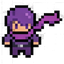
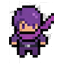
Fix character proportions, farm/pen overlap, and add yard decoration
Three visual bugs reported by the user:

1. char_4's front sprite had a long trailing ribbon spanning the full
   64px canvas width (vs ~48px body width on char_1-3), making it look
   disproportionate next to other characters. Cropped/recentered the
   ribbon tail. Also found char_4_side.png was a mis-cropped headshot
   with no body at all (not just wide) -- disabled its side-facing
   variant in DIRECTIONAL_ASSETS so it falls back to the (now-fixed)
   front sprite instead of showing a broken headless blob. char_4_back
   was already fine, left untouched.

2. FARM_PLOT_LAYOUT/PEN_LAYOUT placed adjacent plots/pens only 1 grid
   unit apart, which at this project's ISO_STEP_X/Y values is far
   smaller than the 40x40px cell size -- plots visually overlapped each
   other by 40-70%, reading as a jumbled cluster instead of two parallel
   rows. Spaced them 3 units apart (verified via gridPos() math: 0
   overlapping pairs), producing two clean non-overlapping parallel
   rows.

3. Occupied pens (animal placed) kept the same dark box background as
   empty/locked pens, making animals look caged despite already having
   wander animation. Removed the background/border for the occupied
   state so animals render freely on the grass; empty/locked slots keep
   their box since those still need to read as ground markers.

Also added 4 non-interactive decorative props (sunflower, fallen
leaves, herb, butterfly) to the yard scene per user request for "庭院
[…]

diff --git a/js/game.js b/js/game.js
@@ -784,9 +784,22 @@ function yardPlotCellHtml(state, plotDef) {
   const stateCls = stage.mature ? " mature" : " growing";
   return `<div class="roomCell farmPlot${stateCls} alwaysLabel" id="farmPlot_${plotDef.id}" style="left:${pos.left};top:${pos.top};z-index:${z}" title="${label}"><div class="icon">${icon}</div><div class="homeLabel">${label}</div></div>`;
 }
+// 2026-07-03（使用者反饋「庭院應該更多些裝飾」）：純視覺、無互動的擺設，位置刻意避開FARM_PLOT_LAYOUT
+// 的地塊座標，不佔用/不影響任何遊戲邏輯，只是讓庭院看起來不再只有光禿禿的地塊
+const YARD_DECOR = [
+  { gx: 0, gy: 0, icon: "🌻", label: "向日葵" },
+  { gx: 6, gy: 0, icon: "🍂", label: "落葉堆" },
+  { gx: 1, gy: 6, icon: "🌿", label: "野草" },
+  { gx: 10, gy: 6, icon: "🦋", label: "蝴蝶" },
+];
+function yardDecorCellHtml(d) {
+  const pos = gridPos(d.gx, d.gy);
+  const z = cellZ(d.gx + d.gy);
+  return `<div class="roomCell yardDecor" style="left:${pos.left};top:${pos.top};z-index:${z}"><div class="icon">${d.icon}</div><div class="homeLabel">${d.label}</div></div>`;
+}
 function yardSceneHtml(state) {
   if (outdoorScene !== "yard") { outdoorScene = "yard"; outdoorPlayerPos = null; }
-  const items = FARM_PLOT_LAYOUT.map(p => yardPlotCellHtml(state, p));
+  const items = YARD_DECOR.map(yardDecorCellHtml).concat(FARM_PLOT_LAYOUT.map(p => yardPlotCellHtml(state, p)));
   items.push(outdoorPlayerCellHtml("yard"));
   // 庭院是室外土地，不沿用state.roomFloor(小屋室內地板樣式)，改用專屬的ground-farmland紋理
   return `<div class="homeScene"><div class="homePillRow homeTabPills"><button class="homePill" id="yardBackBtn">← 返回小屋</button></div><div class="roomCanvas ground-farmland" id="yardCanvas">${items.join("")}</div></div>`;
@@ -1251,7 +1264,7 @@ function itemIconHtml(itemId, type) {
 // 統一資產解析機制，取代ISO_ASSETS/ENEMY_ASSETS/ICON_ASSETS各自一份幾乎相同的「存在才換圖」判斷邏輯，
 // 並收斂玩家頭像(原本4處)/同伴頭像(原本3處)散落重複的硬編碼路徑。state為模組全域變數，
 // condition函式需要依劇情/天數/血月狀態挑圖時可直接讀取，不必額外傳參。
-const ASSET_CACHE_VERSION = 200; // 取代散落各處的?v=NNN字串，之後bump快取版號只需要改這一個數字
+const ASSET_CACHE_VERSION = 203; // 取代散落各處的?v=NNN字串，之後bump快取版號只需要改這一個數字
 const ASSET_REGISTRY = {};
 function registerAsset(category, id, file) {
   ASSET_REGISTRY[`${category}:${id}`] = [{ condition: () => true, file }];
@@ -1276,7 +1289,7 @@ const DIRECTIONAL_ASSETS = {
   "character:char_1": { back: 1, side: 1 },
   "character:char_2": { back: 1, side: 1 },
   "character:char_3": { back: 1, side: 1 },
-  "character:char_4": { back: 1, side: 1 },
+  "character:char_4": { back: 1 }, // side暫時停用：char_4_side.png是誤裁切的頭部特寫(缺身體)，非真正側面行走圖，待補正式美術前先退回正面圖
   "companion:default": { back: 1, side: 1 },
 };
 Object.keys(DIRECTIONAL_ASSETS).forEach(key => {

diff --git a/js/logic.js b/js/logic.js
@@ -1116,13 +1116,16 @@
   // V1曾改用平面網格，但那套系統跟小屋室內的「點擊走過去互動」共用一套函式，繫死在等角投影上，
   // 無法直接套用平面座標。改回gx/gy，但吸取V1教訓：相鄰地塊只差1格(不再留空隙)，減少同一排的落差。
   // id列表也是defaultState()/驗證時的唯一依據，避免兩處各存一份地塊清單
+  // 2026-07-03修正：gx/gy相鄰只差1格時，換算成gridPos()的實際像素間距(約23px橫/17px縱)
+  // 遠小於格子本體(40x40px)，導致地塊嚴重互相重疊(不是「平行排列」，是疊在一起)。
+  // 改成差3格，橫向約70px、縱向約51px，兩者都超過格子尺寸，兩排地塊才會呈現清楚不重疊的平行排列
   const FARM_PLOT_LAYOUT = [
     { id: "plot_1", gx: 2, gy: 2 },
-    { id: "plot_2", gx: 3, gy: 2 },
-    { id: "plot_3", gx: 4, gy: 2 },
-    { id: "plot_4", gx: 2, gy: 4 },
-    { id: "plot_5", gx: 3, gy: 4 },
-    { id: "plot_6", gx: 4, gy: 4 },
+    { id: "plot_2", gx: 5, gy: 2 },
+    { id: "plot_3", gx: 8, gy: 2 },
+    { id: "plot_4", gx: 2, gy: 5 },
+    { id: "plot_5", gx: 5, gy: 5 },
+    { id: "plot_6", gx: 8, gy: 5 },
   ];
 
   // 沒有真實時鐘離線結算機制，用「第幾個天/夜階段」當生長時間軸，回合制推進即天然達成離線也會生長
@@ -1208,11 +1211,12 @@
 
   // ---------- 養殖區（2026-07-02，見規格文件/養殖區_設計規格.md，2026-07-03改版V2星露谷式） ----------
   // 欄位固定佈局：gx/gy給等角走路系統定位，理由跟FARM_PLOT_LAYOUT一致
+  // 2026-07-03修正：理由同FARM_PLOT_LAYOUT，相鄰只差1格會嚴重重疊，改成差3格
   const PEN_LAYOUT = [
     { id: "pen_1", gx: 2, gy: 2 },
-    { id: "pen_2", gx: 3, gy: 2 },
-    { id: "pen_3", gx: 2, gy: 3 },
-    { id: "pen_4", gx: 3, gy: 3 },
+    { id: "pen_2", gx: 5, gy: 2 },
+    { id: "pen_3", gx: 2, gy: 5 },
+    { id: "pen_4", gx: 5, gy: 5 },
   ];
 
   const FEED_COST = 3; // 餵食消耗的food

diff --git a/css/style.css b/css/style.css
@@ -479,8 +479,12 @@ body.blood-moon .panelCard { background: rgba(18,0,0,0.85); border-color: rgba(2
 }
 .roomCell.penCell.empty .icon { background: linear-gradient(to bottom, #4a4034, #332c24); }
 .roomCell.penCell.locked .icon { background: #2b2f36; opacity: 0.6; }
-.roomCell.penCell.occupied .icon { background: linear-gradient(to bottom, #3d4438, #2a3026); }
+/* 2026-07-03修正：已放養動物後不該還留著方形底色框(使用者反饋「雞還有框框」)——動物本身會走動，
+   應該像自由活動的個體而不是關在一個色塊裡；底色/邊框只在「空欄位/上鎖」這種需要標示地面結構的狀態才留著 */
+.roomCell.penCell.occupied .icon { background: none; border: none; box-shadow: none; }
 .roomCell.penCell.occupied.ready .icon { filter: drop-shadow(0 0 5px rgba(150,220,120,0.75)); }
+/* 2026-07-03新增：庭院純裝飾擺設(使用者反饋「庭院應該更多些裝飾」)，無互動、無底色框，只在hover顯示名稱 */
+.roomCell.yardDecor .icon { font-size: 22px; }
 /* V2星露谷式(2026-07-03)：地塊/欄位的狀態(解鎖成本/生長進度/好感度)是玩家需要一眼看到的資訊，
    不比照家具名稱標籤走hover-only(.roomCell .homeLabel預設opacity:0)，一律常駐顯示 */
 .roomCell.alwaysLabel .homeLabel { opacity: 1; }

diff --git a/index.html b/index.html
@@ -4,7 +4,7 @@
 <meta charset="UTF-8">
 <meta name="viewport" content="width=device-width, initial-scale=1, maximum-scale=1, user-scalable=no">
 <title>餘燼日記</title>
-<link rel="stylesheet" href="css/style.css?v=200">
+<link rel="stylesheet" href="css/style.css?v=203">
 </head>
 <body>
 <div id="app">
@@ -12,10 +12,10 @@
   <div id="statusExtra" class="statusExtra hidden"></div>
   <div id="screen"></div>
 </div>
-<script src="js/data.js?v=200"></script>
-<script src="js/story.js?v=200"></script>
-<script src="js/logic.js?v=200"></script>
-<script src="js/game.js?v=200"></script>
+<script src="js/data.js?v=203"></script>
+<script src="js/story.js?v=203"></script>
+<script src="js/logic.js?v=203"></script>
+<script src="js/game.js?v=203"></script>
 </body>
 </html>
 
